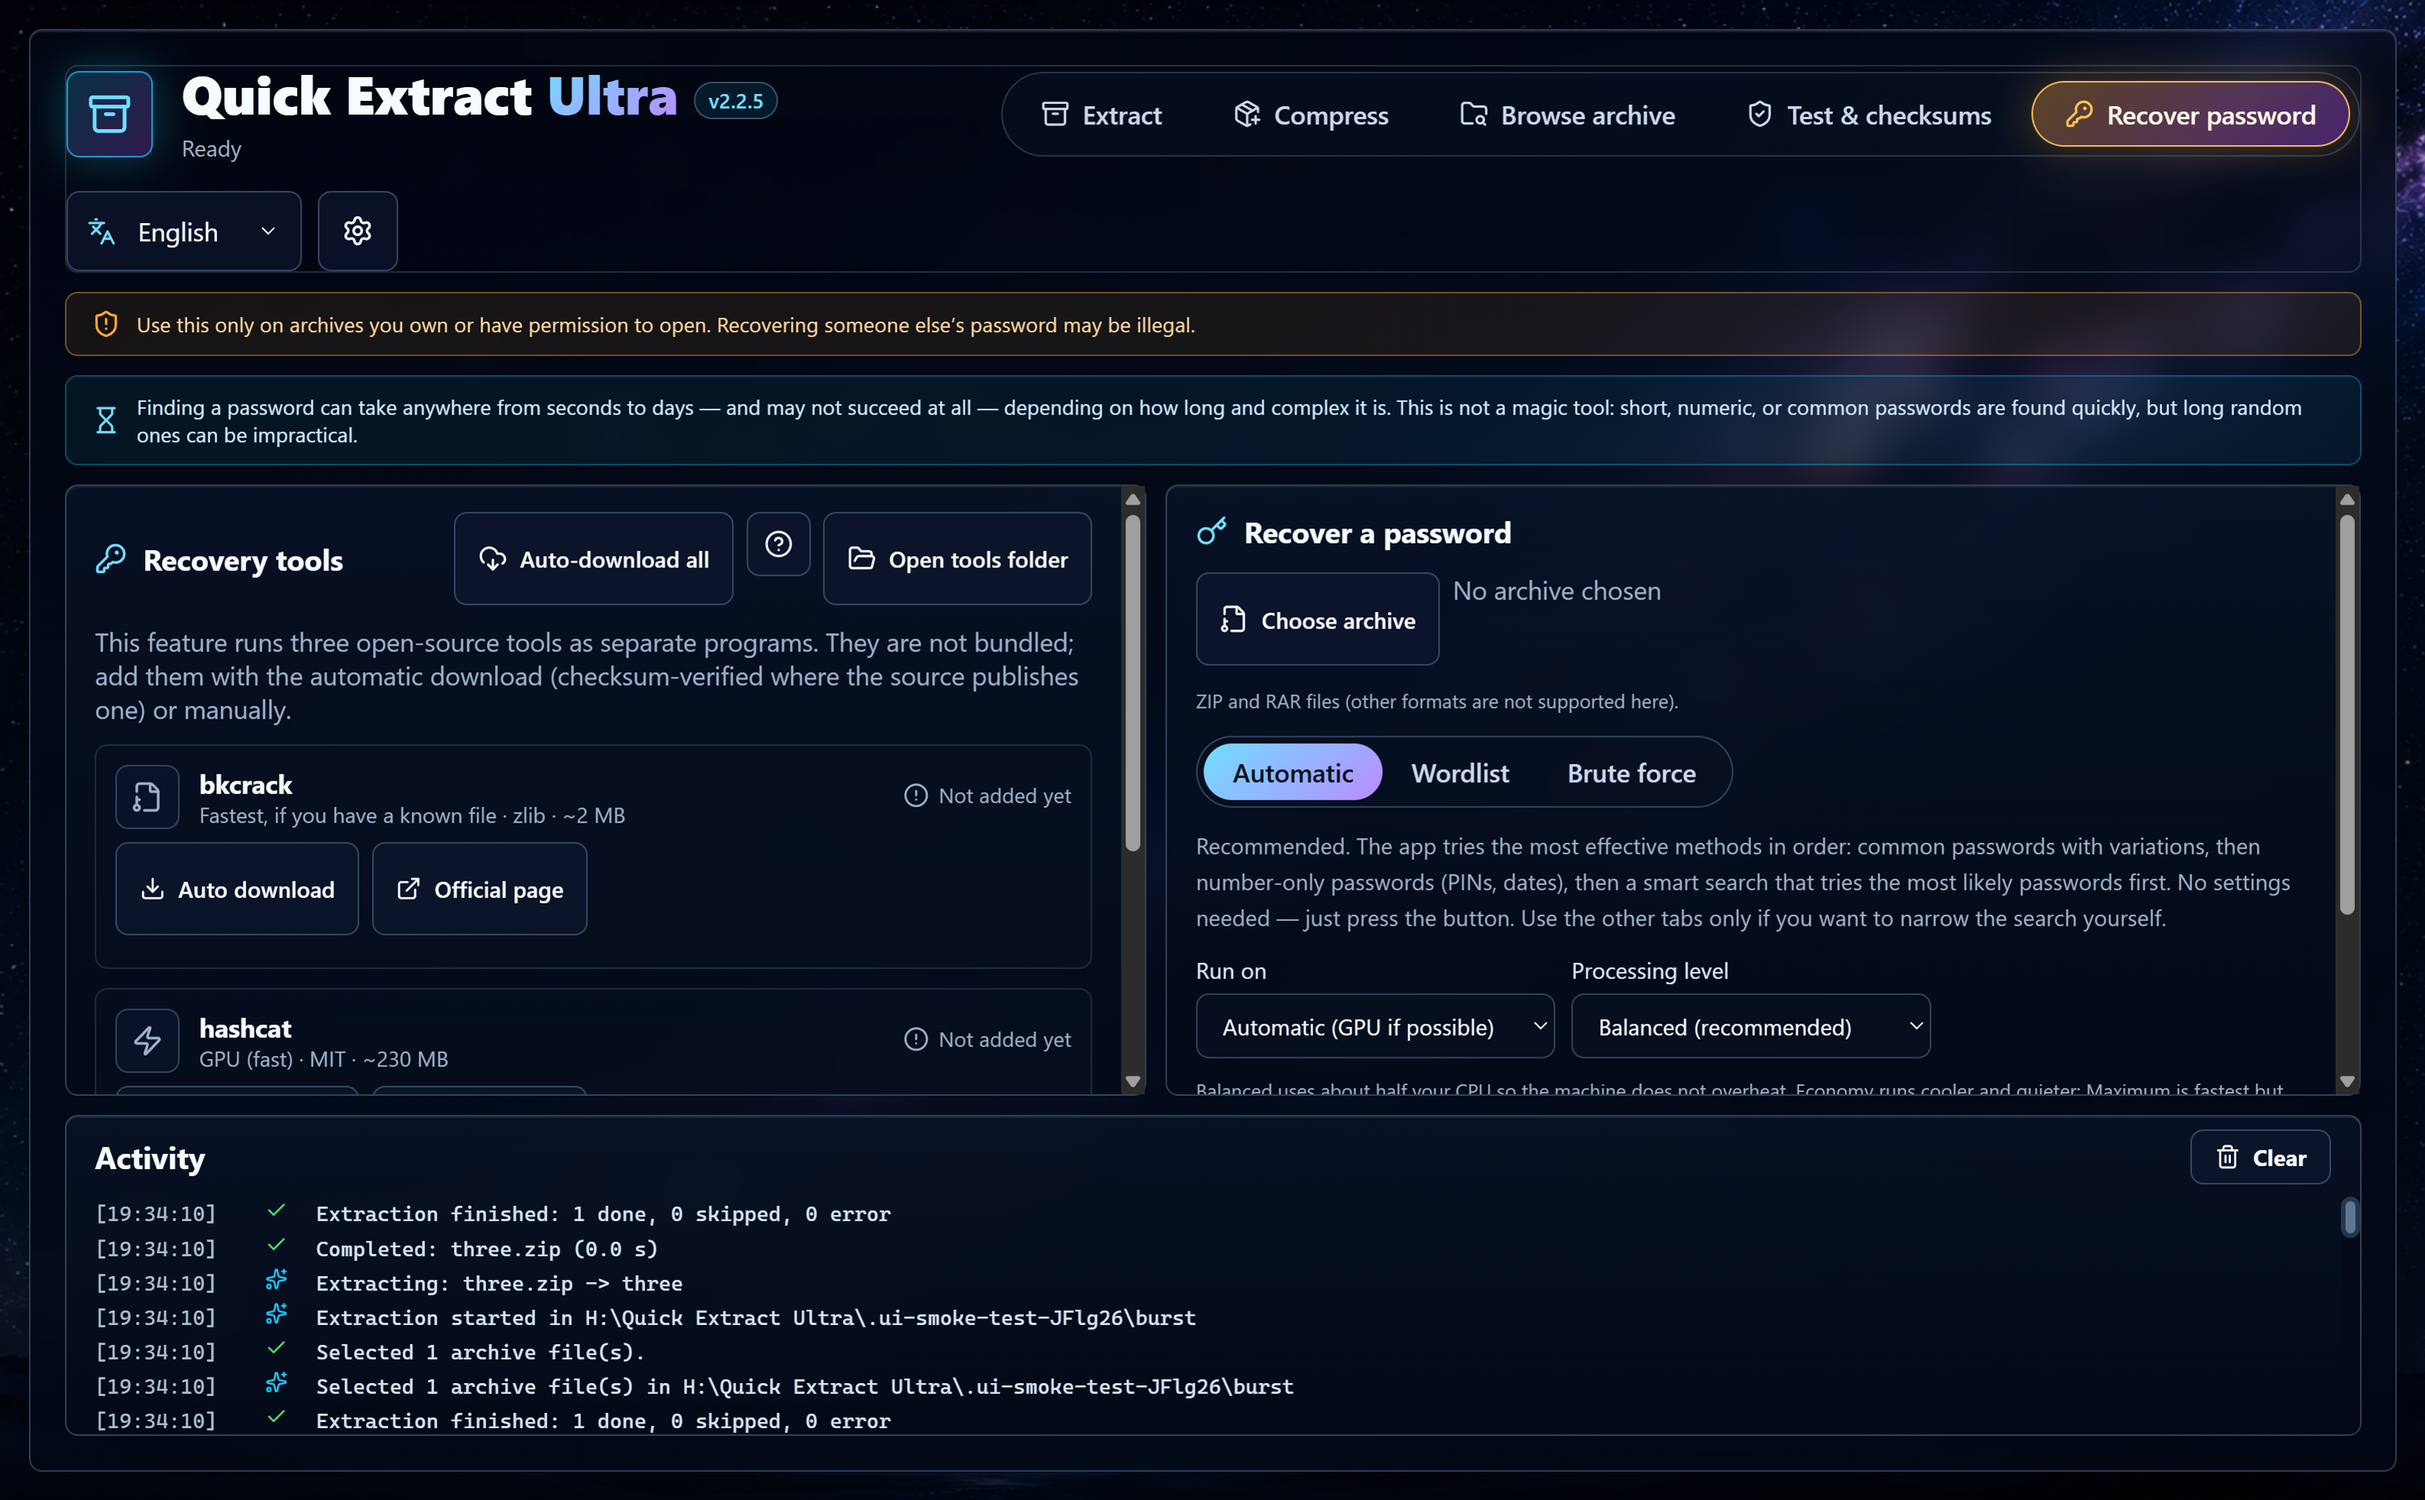
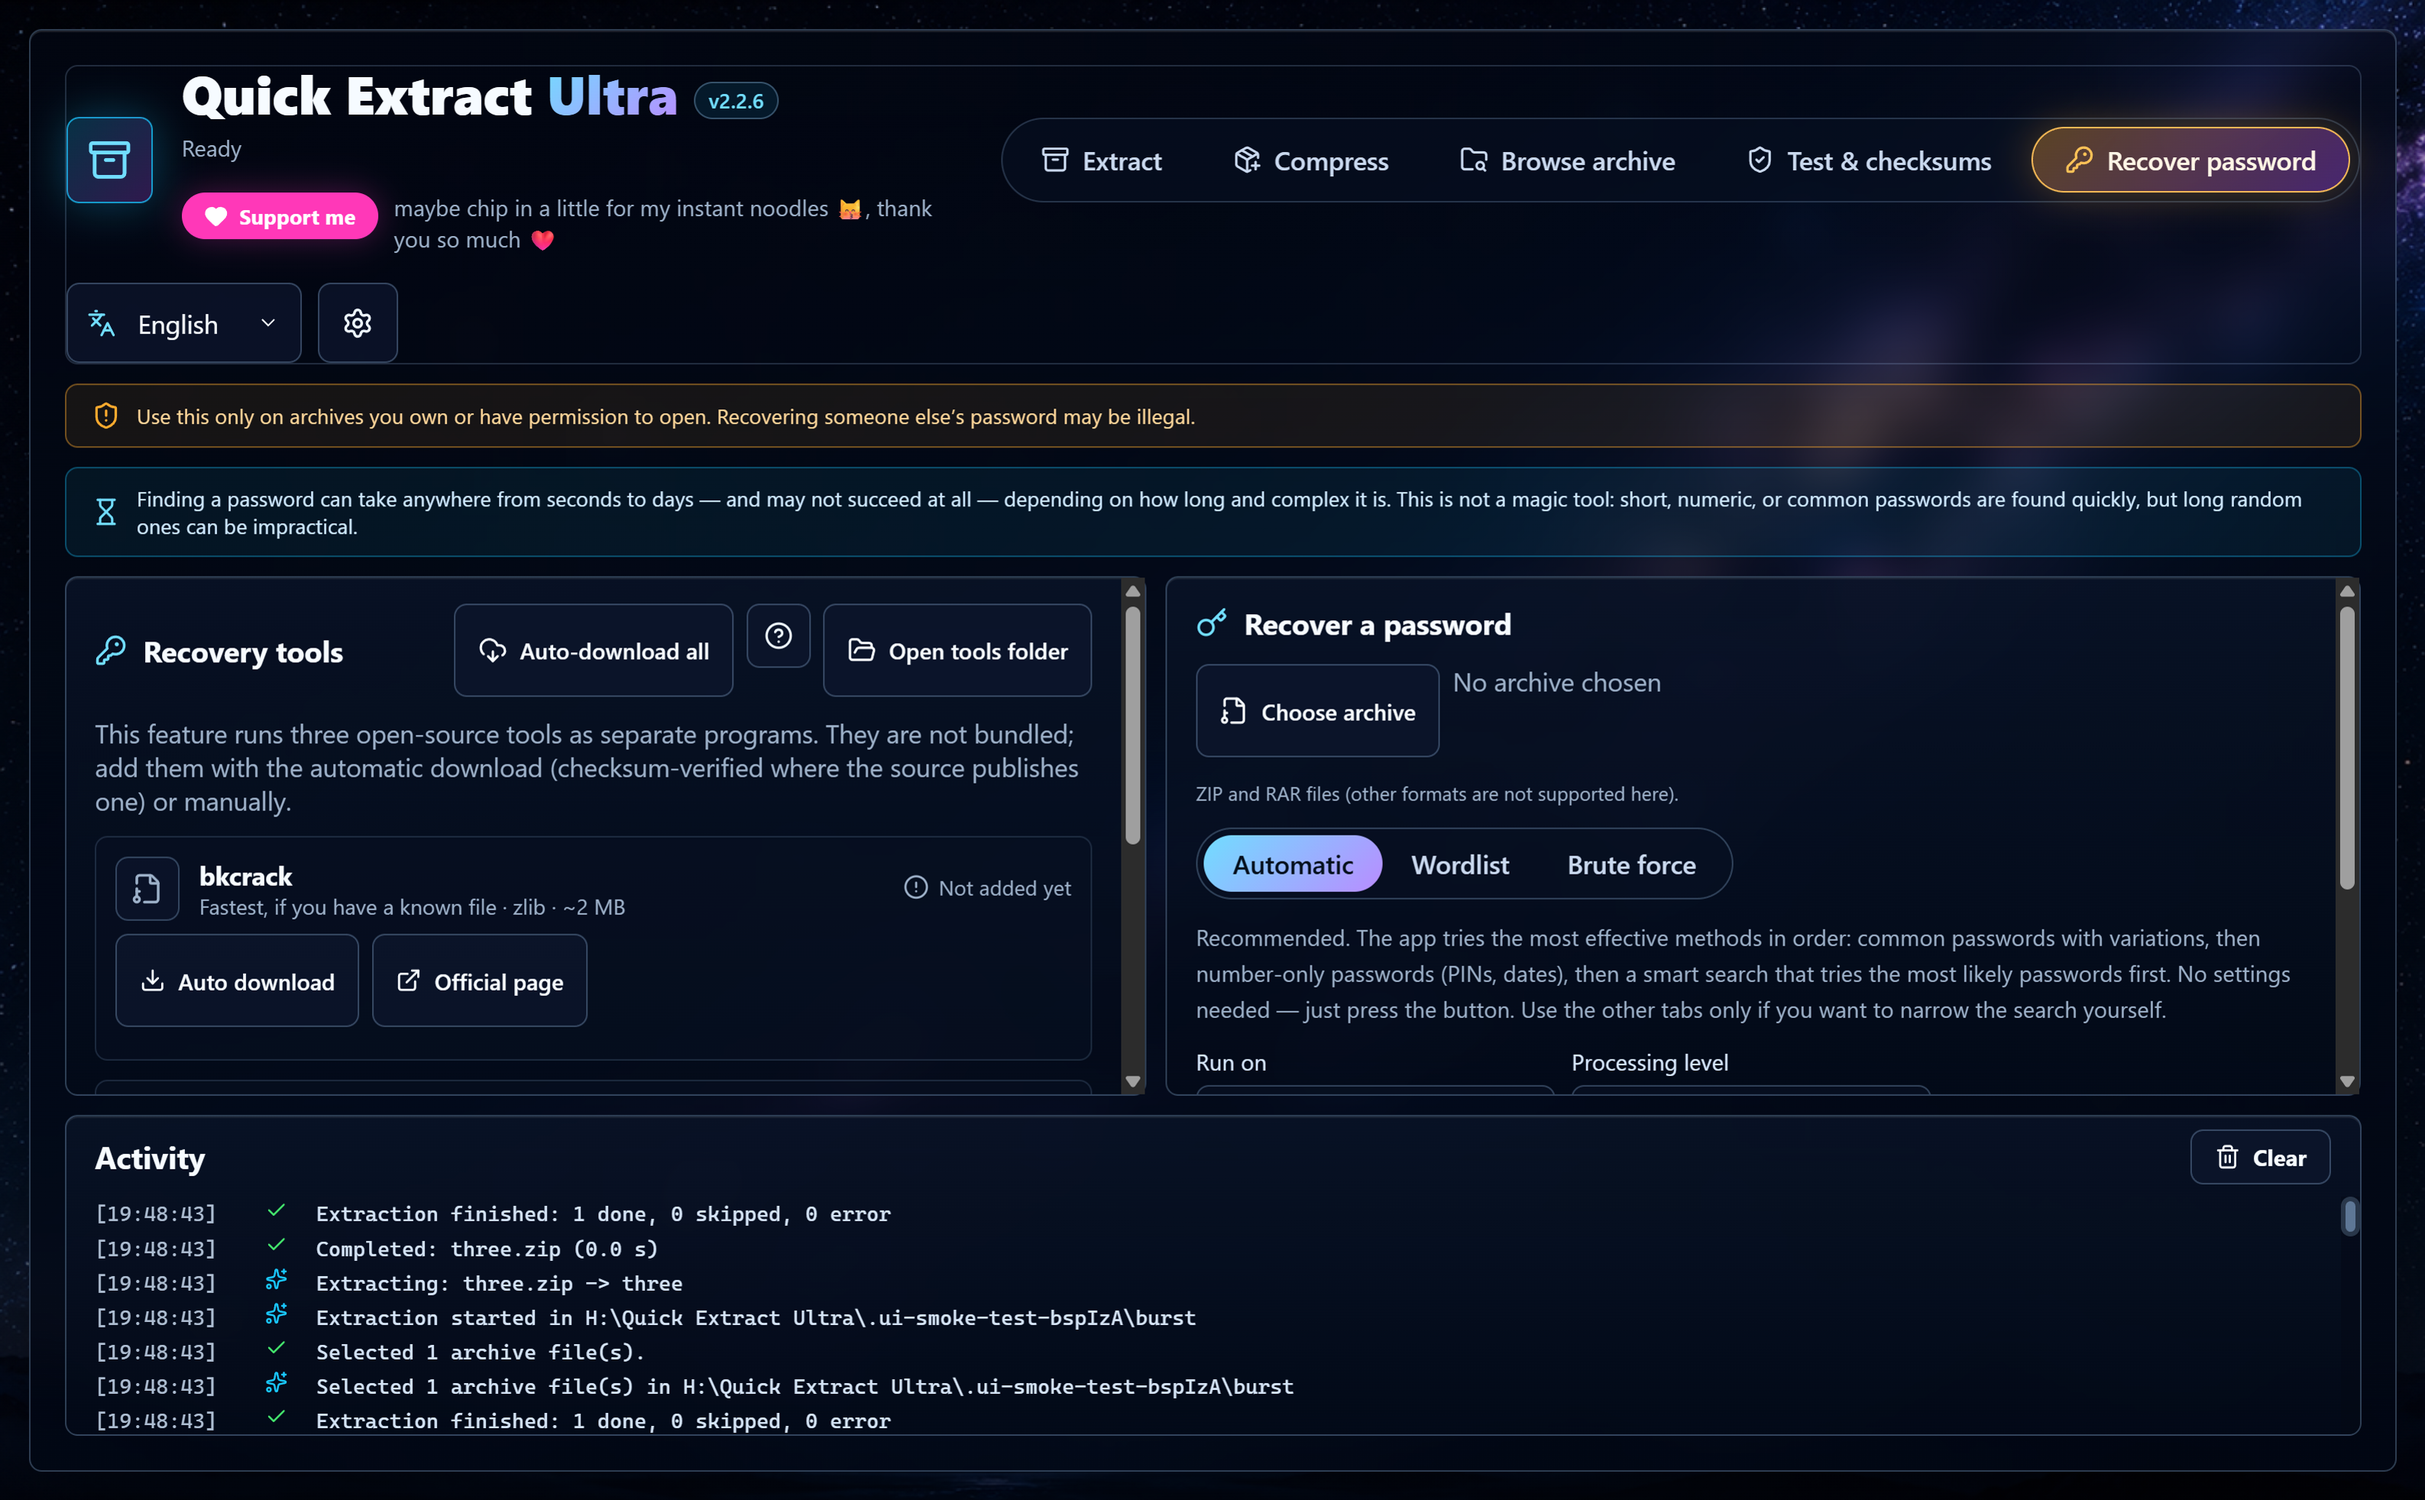
2.2.6: Ko-fi support button + caption
Add a native pink "Support me" button under the app title that opens
ko-fi.com/nyannyankuro in the default browser, with a small friendly
caption. Native button (shell.openExternal) instead of Ko-fi's remote
overlay script, to keep the renderer free of third-party remote code.
Button + caption in all 5 languages. README Support sections,
FUNDING.yml, and the Settings support link now point to Ko-fi.

diff --git a/src/App.tsx b/src/App.tsx
@@ -13,6 +13,7 @@ import {
   FolderOutput,
   FolderSearch,
   HardDrive,
+  Heart,
   Languages,
   LoaderCircle,
   LockKeyhole,
@@ -708,6 +709,18 @@ function Workspace({ settings, onSettingsChange }: WorkspaceProps) {
             <div>
               <h1>Quick Extract <em>Ultra</em>{appInfo?.version && <small className="app-version">v{appInfo.version}</small>}</h1>
               <span>{notice || t('notice.ready')}</span>
+              <div className="kofi-row">
+                <button
+                  className="kofi-button"
+                  type="button"
+                  onClick={() => void window.quickExtract.openToolPage('https://ko-fi.com/nyannyankuro')}
+                  title="ko-fi.com/nyannyankuro"
+                >
+                  <Heart size={15} aria-hidden="true" />
+                  {t('support.button')}
+                </button>
+                <span className="kofi-caption">{t('support.caption')}</span>
+              </div>
             </div>
           </div>
           <nav className="tab-bar" aria-label={t('tab.label')}>

diff --git a/src/App.css b/src/App.css
@@ -2115,3 +2115,53 @@ input:focus-visible,
   font-size: 13px;
 }
 .expectations-note svg { flex: 0 0 auto; color: var(--cyan-soft); }
+
+/* Ko-fi support button under the app name. */
+.kofi-button {
+  display: inline-flex;
+  align-items: center;
+  gap: 7px;
+  margin-top: 10px;
+  padding: 6px 14px;
+  border: none;
+  border-radius: 999px;
+  color: #fff;
+  background: #ff38b8;
+  font-size: 13px;
+  font-weight: 700;
+  cursor: pointer;
+  box-shadow: 0 0 20px rgba(255, 56, 184, 0.3);
+  transition: transform 160ms ease, box-shadow 160ms ease, background 160ms ease;
+}
+
+.kofi-button:hover {
+  background: #ff5ac6;
+  box-shadow: 0 0 28px rgba(255, 56, 184, 0.45);
+}
+
+.kofi-button:active {
+  transform: translateY(1px);
+}
+
+.kofi-button svg {
+  fill: currentColor;
+}
+
+.kofi-row {
+  display: flex;
+  align-items: center;
+  gap: 10px;
+  flex-wrap: wrap;
+  margin-top: 10px;
+}
+
+.kofi-row .kofi-button {
+  margin-top: 0;
+}
+
+.kofi-caption {
+  color: var(--muted);
+  font-size: 12px;
+  max-width: 340px;
+  line-height: 1.4;
+}

diff --git a/src/SettingsDialog.tsx b/src/SettingsDialog.tsx
@@ -75,7 +75,7 @@ export default function SettingsDialog({ settings, appInfo, onChange, onClose, a
           <p className="muted">{t('settings.formats')}: {appInfo?.extractFormats.map((item) => item.toUpperCase()).join(', ')}</p>
           <div className="panel-actions">
             <a className="secondary-button compact" href={REPOSITORY_URL} target="_blank" rel="noreferrer"><ExternalLink size={16} />GitHub</a>
-            <a className="secondary-button compact support-link" href={`${REPOSITORY_URL}#support-the-project`} target="_blank" rel="noreferrer"><Heart size={16} />{t('settings.support')}</a>
+            <a className="secondary-button compact support-link" href="https://ko-fi.com/nyannyankuro" target="_blank" rel="noreferrer"><Heart size={16} />{t('settings.support')}</a>
           </div>
           <p className="muted small-print">{t('settings.credits')}</p>
         </section>

diff --git a/CHANGELOG.md b/CHANGELOG.md
@@ -9,6 +9,17 @@ Version notes are required for every future app change. Each release should reco
 - Verification performed.
 - Package or shortcut changes, if any.
 
+## 2.2.6 - 2026-10-22
+
+### Added
+
+- A pink **"Support me"** button under the app title that opens the project's Ko-fi page (`ko-fi.com/nyannyankuro`) in the default browser, with a small friendly caption beside it. Implemented as a **native button** that opens the page externally rather than injecting Ko-fi's remote overlay-widget `<script>` — this keeps the Electron renderer free of third-party remote code (safer, and not blocked by the app's isolation). The button label and caption are in all five languages.
+- README "Support the project" sections (EN/JA/VI), `.github/FUNDING.yml`, and the Settings "Support the project" link now point to the Ko-fi page.
+
+### Package
+
+- Outputs: `QuickExtractUltra-Setup-2.2.6.exe`, `QuickExtractUltra-Portable-2.2.6-win-x64.zip`.
+
 ## 2.2.5 - 2026-10-22
 
 ### Added

diff --git a/docs/README.vi.md b/docs/README.vi.md
@@ -149,9 +149,8 @@ Quick Extract Ultra luôn miễn phí. Nếu nó giúp ích cho bạn, bạn có
 
 - ⭐ **Bấm Star cho kho mã này**. Việc này giúp nhiều người khác tìm thấy nó.
 - 🐛 Báo lỗi và đề xuất tính năng ở mục [Issues](https://github.com/nyankuro/quick-extract-ultra/issues).
-- ☕ Ủng hộ tài chính (sắp có):
+- ☕ **[Ủng hộ mình trên Ko-fi](https://ko-fi.com/nyannyankuro)** — trong app cũng có nút "Ủng hộ mình" ngay dưới tên ứng dụng.
   - GitHub Sponsors: *sắp có*
-  - Ko-fi: *sắp có*
   - PayPal: *sắp có*
 
 ## Giấy phép

diff --git a/docs/README.ja.md b/docs/README.ja.md
@@ -149,9 +149,8 @@ Quick Extract Ultra はこれからもずっと無料です。役に立ったら
 
 - ⭐ **このリポジトリにスターを付ける**。他の人が見つけやすくなります。
 - 🐛 [Issues](https://github.com/nyankuro/quick-extract-ultra/issues) でバグ報告や機能の提案。
-- ☕ 寄付（準備中）：
+- ☕ **[Ko-fi で応援する](https://ko-fi.com/nyannyankuro)** — アプリ内のタイトル下にも「応援する」ボタンがあります。
   - GitHub Sponsors：*準備中*
-  - Ko-fi：*準備中*
   - PayPal：*準備中*
 
 ## ライセンス

diff --git a/README.md b/README.md
@@ -153,9 +153,8 @@ Quick Extract Ultra is free and always will be. If it saves you time, you can he
 
 - ⭐ **Star this repository**. It really helps others find it.
 - 🐛 Report bugs and suggest features in [Issues](https://github.com/nyankuro/quick-extract-ultra/issues).
-- ☕ Donations (coming soon):
+- ☕ **[Support me on Ko-fi](https://ko-fi.com/nyannyankuro)** — there's also a "Support me" button in the app, under the title.
   - GitHub Sponsors: *coming soon*
-  - Ko-fi: *coming soon*
   - PayPal: *coming soon*
 
 ## License
